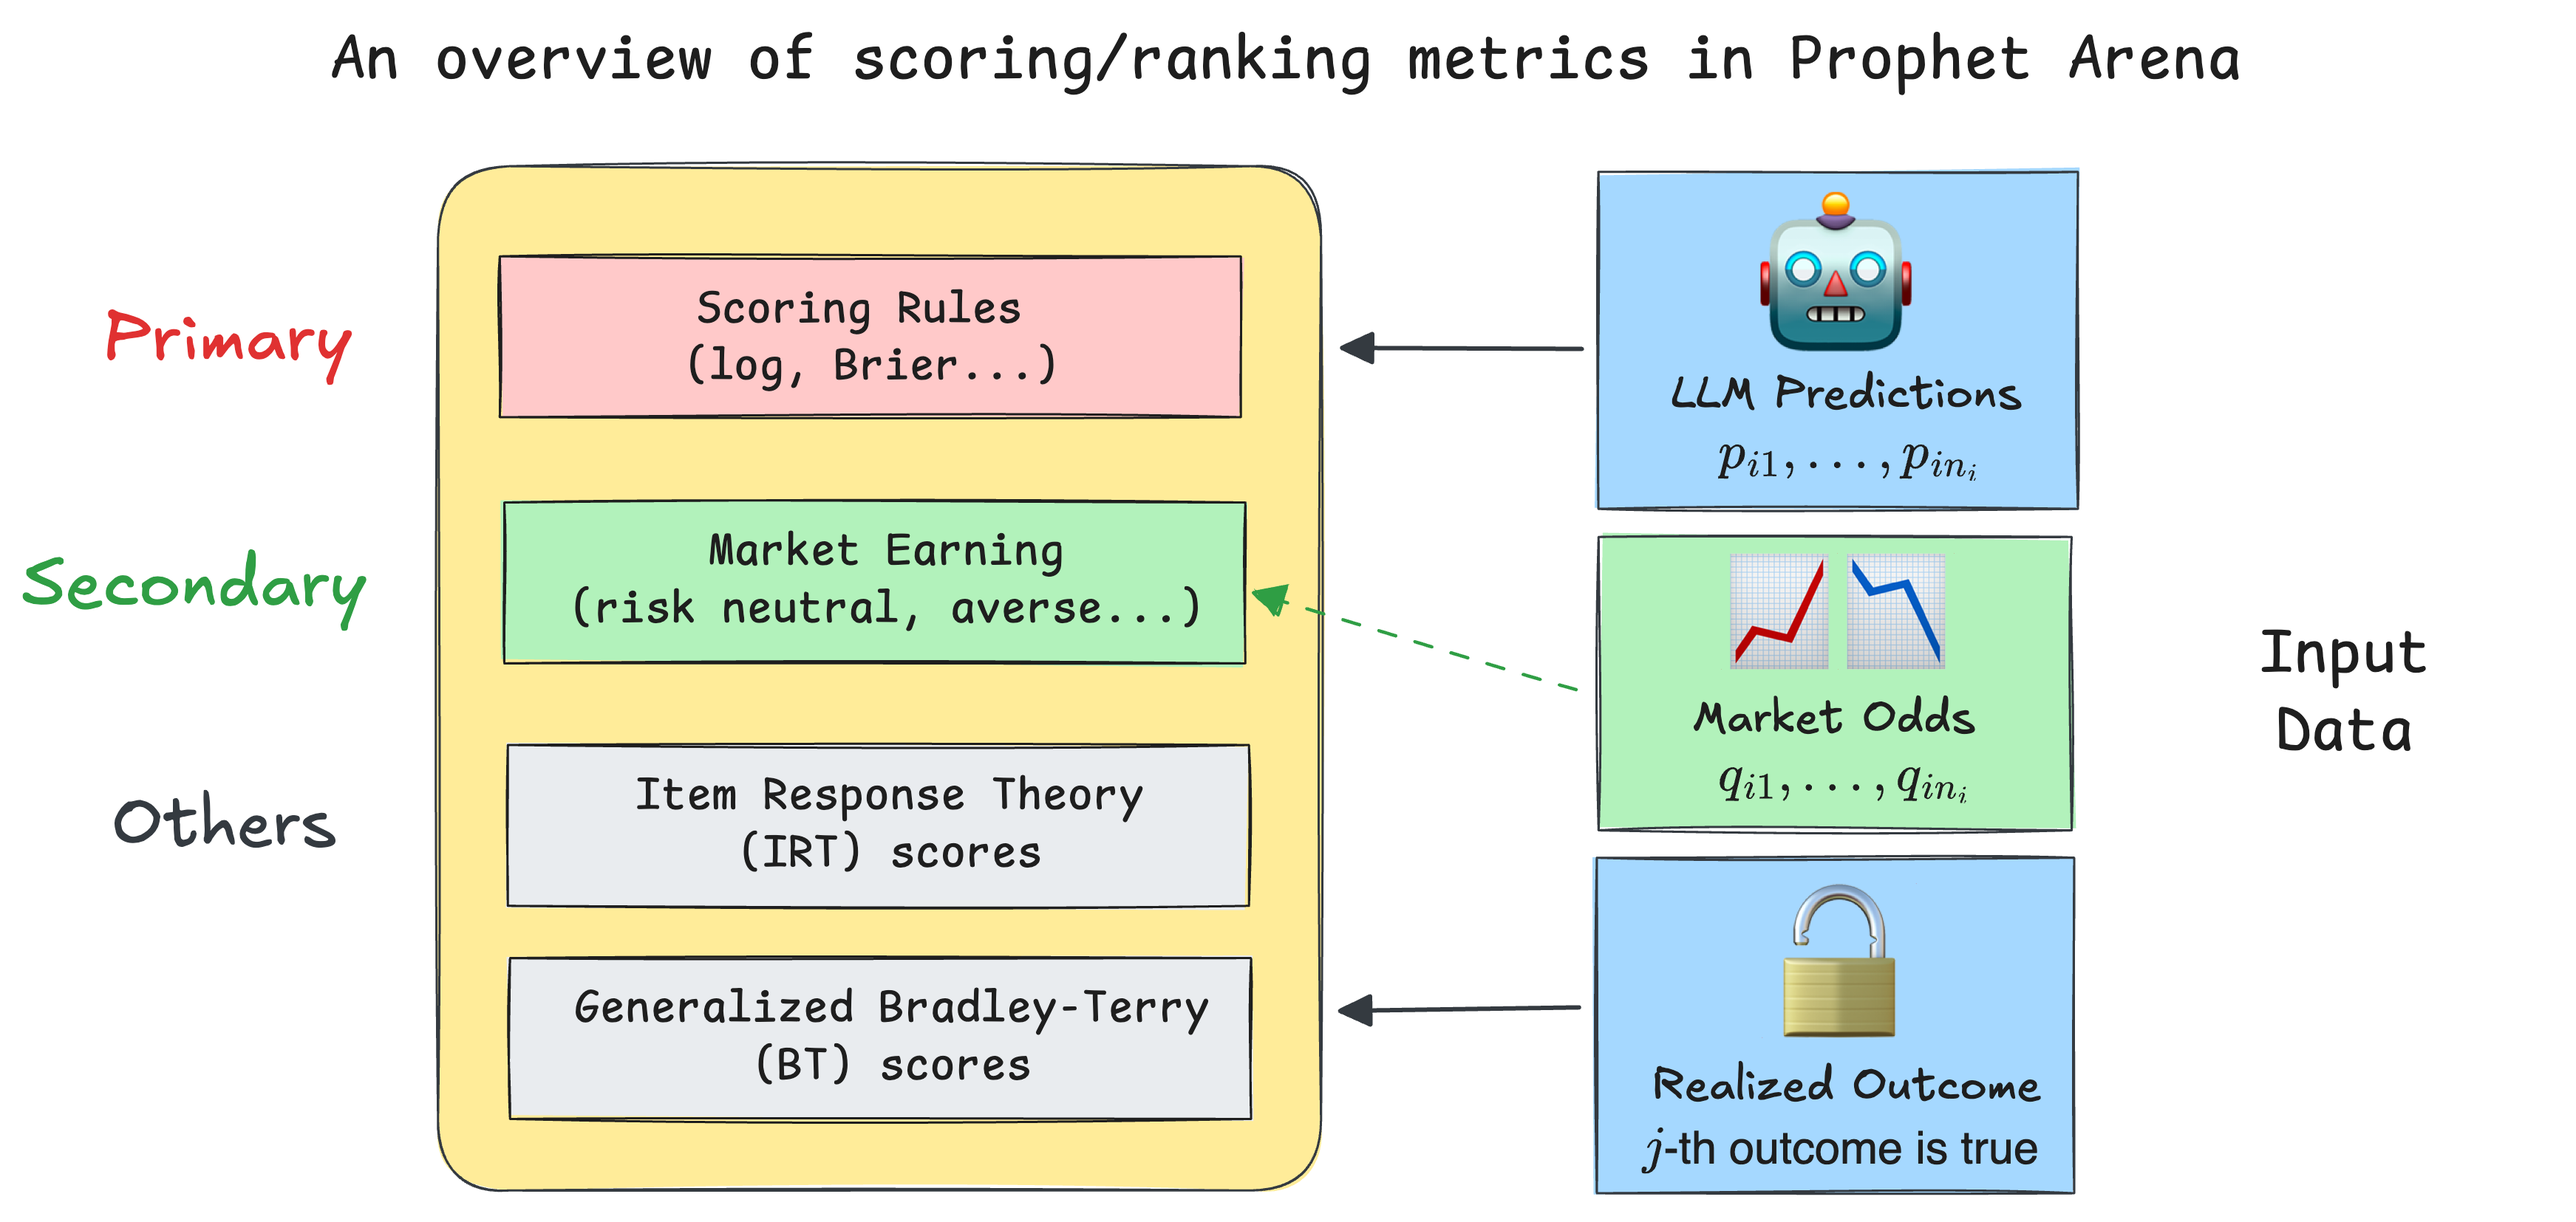
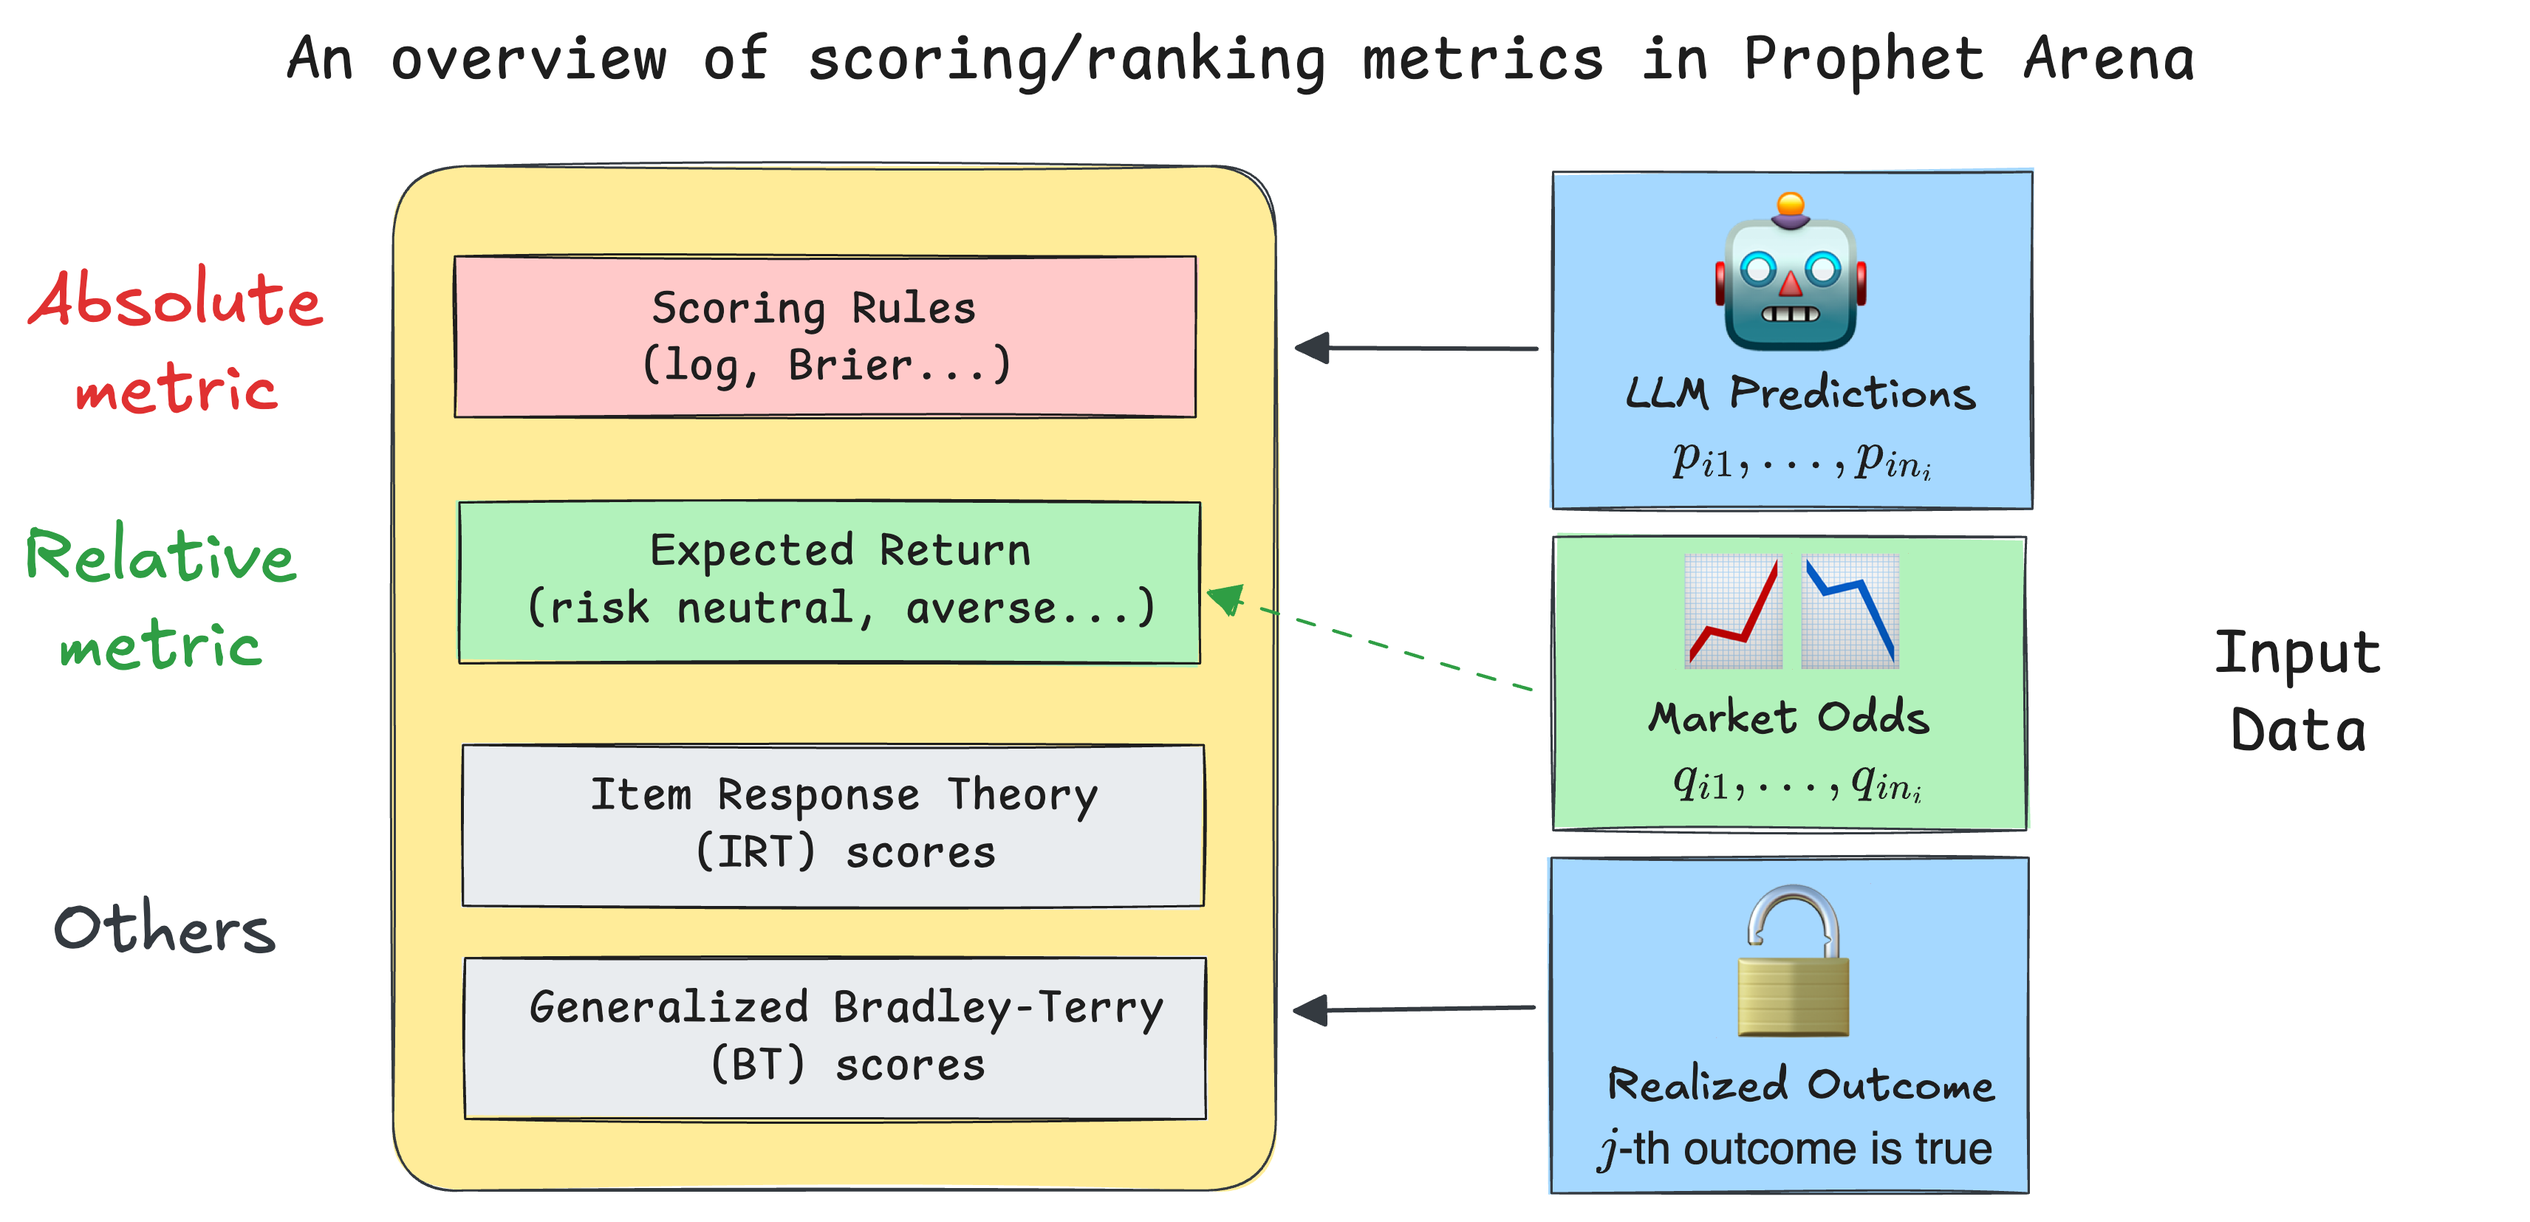
update doc

diff --git a/docs/source/blogpost/ranking_llm_250727.md b/docs/source/blogpost/ranking_llm_250727.md
@@ -21,7 +21,7 @@ In this post, we'll guide you through the reasoning behind our metric choices an
 
   It naturally generalizes beyond binary outcomes, assessing both accuracy and calibration.
 
-* We've innovatively introduced a class of **money-earning metrics** as complementary indicators. Intuitively, these metrics simulate the long-term returns of someone consistently betting based purely on the LLM's probability estimates, using the same budget for each event.
+* We've innovatively introduced a class of **expected return metrics** as complementary indicators. Intuitively, these metrics simulate the long-term returns of someone consistently betting based purely on the LLM's probability estimates, using the same budget for each event.
 
 * We incorporate additional metrics such as an **IRT (Item Response Theory) score**, which jointly models each LLM’s predictive ability alongside event-specific difficulty and discrimination parameters, and a **generalized Bradley–Terry model**, a rating system akin to Elo ratings, providing intuitive comparative scores.
 
@@ -56,7 +56,7 @@ It's worth noting that popular real-world forecasting platforms, such as [Good J
 
 While the Brier score serves as our default scoring method due to its interpretability and robustness, we also make other proper scoring rules, such as the logarithmic (log) and spherical scores, availabe in the `pm_rank` package. The intuitive interpretation of the Brier score makes it our primary evaluation metric.
 
-## Money Earning: what practitioners might care about
+## Expected Return: what practitioners might care about
 
 In real-world prediction markets, practitioners care deeply about **actionable insights**—specifically, how much money one could earn by faithfully following an LLM’s probabilistic predictions. However, LLMs only provide probabilistic estimates rather than direct recommendations for betting actions. Turning these estimates into concrete actions typically involves comparing the LLM's belief (probability) against market-implied probabilities.
 
@@ -84,19 +84,44 @@ Once these factors are determined, we can determine the optimal strategy $a_i^*$
 * **Logarithmic utility ($\gamma=1$)** bettors allocate their budget proportionally according to the LLM’s probabilities, i.e. $a_{ik}^* \propto p_{ik}$.
 * **Intermediate risk aversions ($0 < \gamma < 1$)** smoothly interpolate between these two extremes, providing flexible yet clearly interpretable betting strategies.
 
-Our money-earning metric then measures the long-term rate of return by following the optimal betting strategy $a_i^*$ across all events. Specifically, we define the **money-earning score (MES)** as:
+Our expected return metric then measures the long-term rate of return by following the optimal betting strategy $a_i^*$ across all events. Specifically, we define the **expected return score (ERS)** as:
 
 \begin{equation*}
-MES := \frac{\sum_{i=1}^{N} \text{payoff from } i\text{-th } \text{event under } a_i^*}{N}.
+ERS := \frac{\sum_{i=1}^{N} \text{payoff from } i\text{-th } \text{event under } a_i^*}{N}.
 \end{equation*}
 
-We need to specify the hyperparameter $\gamma$ to compute the MES. By default, we follow the risk-neutral case ($\gamma=0$), but our platform also allows users to vary this factor (perhaps based on their own risk preferences). Below we show three moving MES metrics over time (as more and more prediction events are closed) for four LLMs and $\gamma = 0, 0.5, 1$:
+where the payoff is simply $a_{ik}^*$ whenever outcome $k$ occurs. We need to specify the hyperparameter $\gamma$ to compute the ERS. By default, we follow the risk-neutral case ($\gamma=0$), but our platform also allows users to vary this factor (perhaps based on their own risk preferences). Below we show three moving ERS metrics over time (as more and more prediction events are closed) for four LLMs and $\gamma = 0, 0.5, 1$:
 
 <p align="center">
-<img src="../_static/prophet_arena_risk_curves_0717.png" alt="Money Earning Score" width="800"/>
-</p>
+<img src="../_static/prophet_arena_risk_curves_0717.png" alt="Expected Return Score" width="800" title="Expected return curves for LLMs, generated with `pm_rank`."/>
 
 Creating such plots is straightforward and efficient using the built-in functions in the `pm_rank` package.
+</p>
+
+### 💭 Absolute versus relative metrics 
+
+It is now the right time to reflect and compare the two important metrics introduced so far. Despite the obvious differences in their mathematical formulations, a more high-level distinction to keep in mind is that: the Brier score is an **absolute metric**, while the expected return score is a **relative metric**. To elaborate:
+
+- When we calculate the Brier score (or any other proper scoring rule), we measure how the LLM's probabilistic predictions align with the observed outcomes. A good score means that the LLM can effectively synthesize the provided information and make accurate & well-calibrated predictions through reasoning. The market odds, which can be interpreted as the human-consensus probabilities, **do not enter into the calculation**.
+
+- On the other hand, the expected return depends on the observed outcome and the strategy $a_i^*$, which in turn is determined by **both the LLM's probabilities and the market odds**. It is thus a **relative metric** in the sense that achieving a good score requires the LLM to perform "relatively better" than most human bettors to create arbitrage opportunities.
+
+<details>
+<summary>🤔 Follow-up: when would rankings based on these two metrics differ?</summary>
+
+Imagine the following stylized setup: 
+
+- There are two LLMs, $A$ and $B$, and all events fall under two categories, `finance` and `sports` (50-50 proportion).
+- For human market, it is relatively more "predictable" in the `sports` category, while the `finance` events require more information aggregation and are thus harder to predict.
+- For LLM $A$, it is substantially better at predicting the `sports` events than $B$, while it is slightly worse at predicting the `finance` events.
+- Now, LLM $A$ will have better Brier score than $B$ because overall it has better predictive capabilities in the **absolute sense** (ignoring market odds).
+- However, if we consider the expected return score, we will find that LLM $B$ will have a better score than $A$ because it is able to make more money in the `finance` events where humans are more inferior at. Despite its strong predictive capabilities in the `sports` events, LLM $A$ is not able to create arbitrage opportunities there since humans are also very good at these problems.
+
+
+
+</details>
+
+
 
 ## IRT & Bradley-Terry: lens of statistical modeling
 
